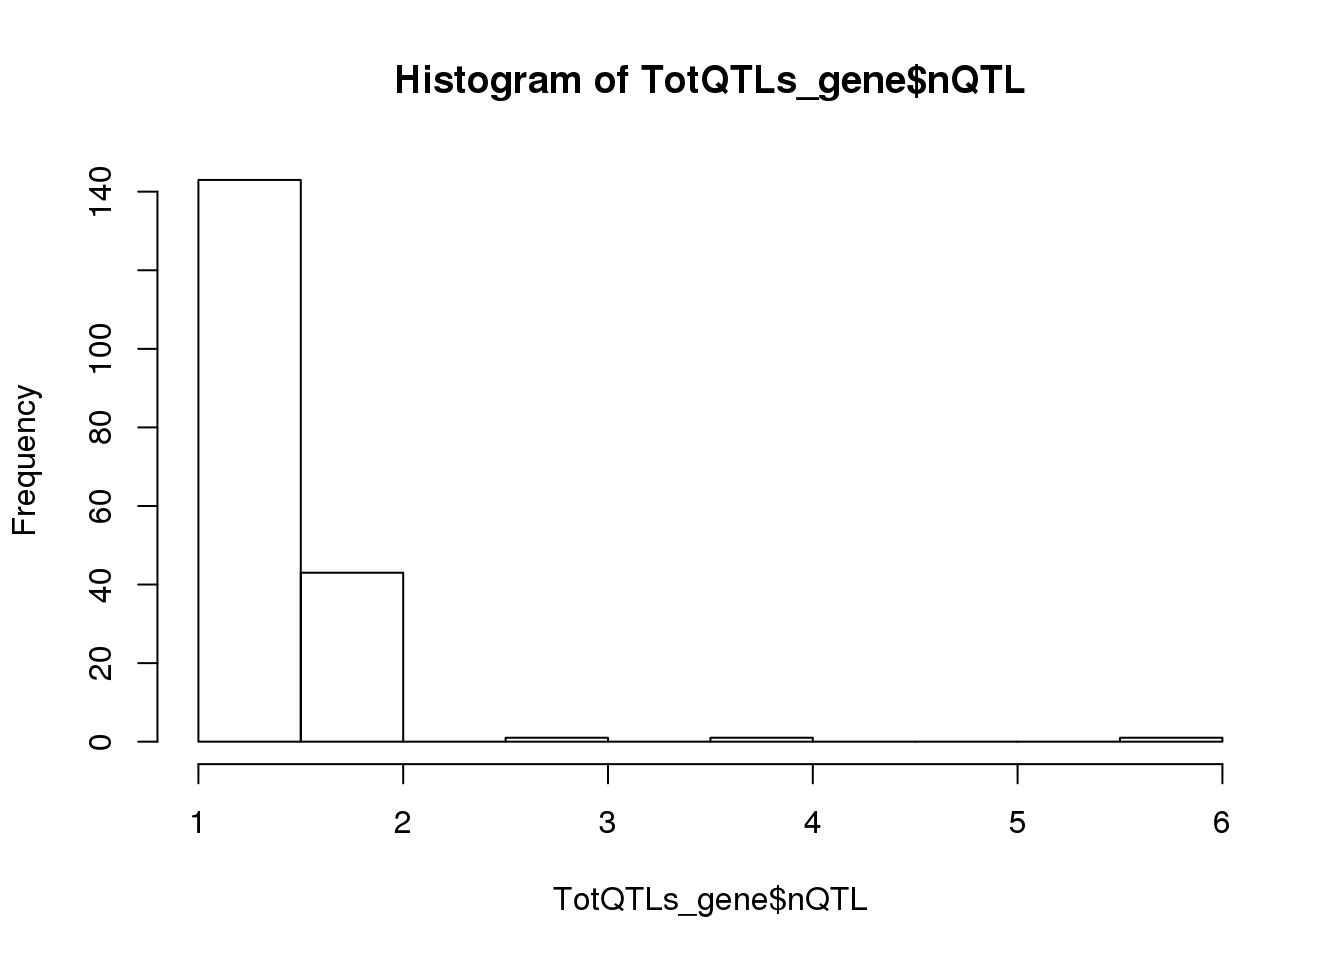
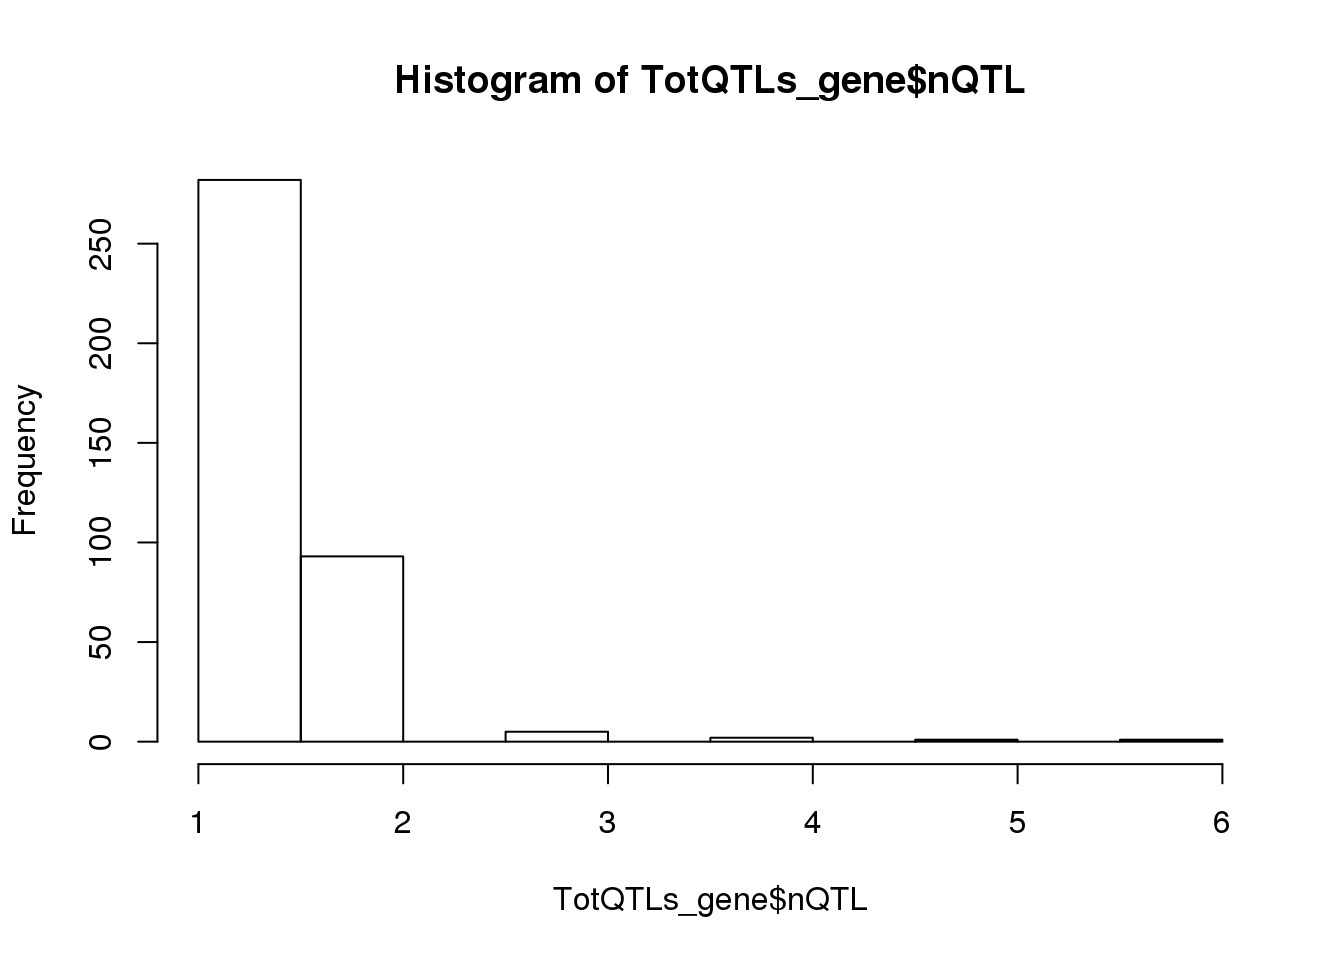
Build site.

diff --git a/docs/mapapaQTL.html b/docs/mapapaQTL.html
@@ -343,7 +343,7 @@ div.section {
 <div class="tab-content">
 <div id="summary" class="tab-pane fade in active">
 <p>
-<strong>Last updated:</strong> 2019-04-28
+<strong>Last updated:</strong> 2019-04-29
 </p>
 <p>
 <strong>Checks:</strong> <span class="glyphicon glyphicon-ok text-success" aria-hidden="true"></span> 6 <span class="glyphicon glyphicon-exclamation-sign text-danger" aria-hidden="true"></span> 0
@@ -422,10 +422,10 @@ This reproducible <a href="http://rmarkdown.rstudio.com">R Markdown</a> analysis
 <div class="panel panel-default">
 <div class="panel-heading">
 <p class="panel-title">
-<a data-toggle="collapse" data-parent="#workflowr-checks" href="#strongRepositoryversionstrongahrefhttpsgithubcombrimittlemanapaQTLtree7416404d702044695f30e239122400f7bc585423targetblank7416404a"> <span class="glyphicon glyphicon-ok text-success" aria-hidden="true"></span> <strong>Repository version:</strong> <a href="https://github.com/brimittleman/apaQTL/tree/7416404d702044695f30e239122400f7bc585423" target="_blank">7416404</a> </a>
+<a data-toggle="collapse" data-parent="#workflowr-checks" href="#strongRepositoryversionstrongahrefhttpsgithubcombrimittlemanapaQTLtreeb18b96c887192a82ee966941ba2d25e3fd030c71targetblankb18b96ca"> <span class="glyphicon glyphicon-ok text-success" aria-hidden="true"></span> <strong>Repository version:</strong> <a href="https://github.com/brimittleman/apaQTL/tree/b18b96c887192a82ee966941ba2d25e3fd030c71" target="_blank">b18b96c</a> </a>
 </p>
 </div>
[2 lines of base64/hex data omitted]
 <div class="panel-body">
 <p>
 Great! You are using Git for version control. Tracking code development and connecting the code version to the results is critical for reproducibility. The version displayed above was the version of the Git repository at the time these results were generated. <br><br> Note that you need to be careful to ensure that all relevant files for the analysis have been committed to Git prior to generating the results (you can use <code>wflow_publish</code> or <code>wflow_git_commit</code>). workflowr only checks the R Markdown file, but you know if there are other scripts or data files that it depends on. Below is the status of the Git repository when the results were generated:
@@ -435,7 +435,6 @@ Ignored files:
     Ignored:    .DS_Store
     Ignored:    .Rhistory
     Ignored:    .Rproj.user/
-    Ignored:    analysis/figure/
     Ignored:    output/.DS_Store
 
 Untracked files:
@@ -553,6 +552,7 @@ Unstaged changes:
     Modified:   analysis/corrbetweenind.Rmd
     Deleted:    code/Upstream10Bases_general.py
     Modified:   code/apaQTLCorrectPvalMakeQQ.R
+    Modified:   code/apaQTL_permuted.sh
     Modified:   code/bed2saf.py
     Deleted:    code/test.txt
 
@@ -593,6 +593,40 @@ Message
 </tr>
 </thead>
 <tbody>
+<tr>
+<td>
+Rmd
+</td>
+<td>
+<a href="https://github.com/brimittleman/apaQTL/blob/b18b96c887192a82ee966941ba2d25e3fd030c71/analysis/mapapaQTL.Rmd" target="_blank">b18b96c</a>
+</td>
+<td>
+brimittleman
+</td>
+<td>
+2019-04-29
+</td>
+<td>
+fix distance
+</td>
+</tr>
+<tr>
+<td>
+html
+</td>
+<td>
+<a href="https://rawcdn.githack.com/brimittleman/apaQTL/2d337286e7a8c6bcf3460f560c34668865a0b7df/docs/mapapaQTL.html" target="_blank">2d33728</a>
+</td>
+<td>
+brimittleman
+</td>
+<td>
+2019-04-28
+</td>
+<td>
+Build site.
+</td>
+</tr>
 <tr>
 <td>
 Rmd
@@ -686,12 +720,12 @@ add map apa qtl pipeline
 </div>
 </div>
 <pre class="r"><code>library(tidyverse)</code></pre>
-<pre><code>── Attaching packages ───────────────────────────────────────────────────────────────────── tidyverse 1.2.1 ──</code></pre>
+<pre><code>── Attaching packages ──────────────────────────────────────────────────────────────── tidyverse 1.2.1 ──</code></pre>
 <pre><code>✔ ggplot2 3.1.0       ✔ purrr   0.3.2  
 ✔ tibble  2.1.1       ✔ dplyr   0.8.0.1
 ✔ tidyr   0.8.3       ✔ stringr 1.3.1  
 ✔ readr   1.3.1       ✔ forcats 0.3.0  </code></pre>
-<pre><code>── Conflicts ──────────────────────────────────────────────────────────────────────── tidyverse_conflicts() ──
+<pre><code>── Conflicts ─────────────────────────────────────────────────────────────────── tidyverse_conflicts() ──
 ✖ dplyr::filter() masks stats::filter()
 ✖ dplyr::lag()    masks stats::lag()</code></pre>
 <pre class="r"><code>library(reshape2)</code></pre>
@@ -763,15 +797,52 @@ cat APApeak_Phenotype_GeneLocAnno.Nuclear.5perc.fc.gz.qqnorm_chr* &gt; APApeak_P
 <p>Total Apa QTLs</p>
 <pre class="r"><code>TotQTLs= totRes %&gt;% filter(-log10(bh)&gt;=1)
 nrow(TotQTLs)</code></pre>
-<pre><code>[1] 242</code></pre>
+<pre><code>[1] 502</code></pre>
 <p>apaQTL genes:</p>
 <pre class="r"><code>TotQTLs_gene=TotQTLs %&gt;% group_by(Gene)  %&gt;% summarise(nQTL=n())
 
 summary(TotQTLs_gene$nQTL)</code></pre>
 <pre><code>   Min. 1st Qu.  Median    Mean 3rd Qu.    Max. 
-   1.00    1.00    1.00    1.28    1.00    6.00 </code></pre>
+  1.000   1.000   1.000   1.307   2.000   6.000 </code></pre>
 <pre class="r"><code>hist(TotQTLs_gene$nQTL)</code></pre>
 <p><img src="figure/mapapaQTL.Rmd/unnamed-chunk-12-1.png" width="672" style="display: block; margin: auto;" /></p>
+<p>
+<button type="button" class="btn btn-default btn-xs btn-workflowr btn-workflowr-fig" data-toggle="collapse" data-target="#fig-unnamed-chunk-12-1">
+Past versions of unnamed-chunk-12-1.png
+</button>
+</p>
+<div id="fig-unnamed-chunk-12-1" class="collapse">
+<div class="table-responsive">
+<table class="table table-condensed table-hover">
+<thead>
+<tr>
+<th>
+Version
+</th>
+<th>
+Author
+</th>
+<th>
+Date
+</th>
+</tr>
+</thead>
+<tbody>
+<tr>
+<td>
+<a href="https://github.com/brimittleman/apaQTL/blob/2d337286e7a8c6bcf3460f560c34668865a0b7df/docs/figure/mapapaQTL.Rmd/unnamed-chunk-12-1.png" target="_blank">2d33728</a>
+</td>
+<td>
+brimittleman
+</td>
+<td>
+2019-04-28
+</td>
+</tr>
+</tbody>
+</table>
+</div>
+</div>
 <p>Location distribution for peaks:</p>
 <pre class="r"><code>TotQTLs_loc= TotQTLs %&gt;% group_by(Loc) %&gt;% summarise(nLoc=n()) %&gt;% mutate(PropLoc=nLoc/nrow(TotQTLs))
 
@@ -781,15 +852,52 @@ totQTLloc=ggplot(TotQTLs_loc, aes(x=Loc, y=PropLoc, fill=Loc)) + geom_bar(stat =
 <p>Nuclear Apa QTLs</p>
 <pre class="r"><code>NucQTLs= nucRes %&gt;% filter(-log10(bh)&gt;=1)
 nrow(NucQTLs)</code></pre>
-<pre><code>[1] 521</code></pre>
+<pre><code>[1] 1070</code></pre>
 <p>apaQTL genes:</p>
 <pre class="r"><code>NucQTLs_gene= NucQTLs %&gt;% group_by(Gene)  %&gt;% summarise(nQTL=n())
 
 summary(NucQTLs_gene$nQTL)</code></pre>
 <pre><code>   Min. 1st Qu.  Median    Mean 3rd Qu.    Max. 
-  1.000   1.000   1.000   1.271   1.000   6.000 </code></pre>
+  1.000   1.000   1.000   1.328   2.000   7.000 </code></pre>
 <pre class="r"><code>hist(NucQTLs_gene$nQTL)</code></pre>
 <p><img src="figure/mapapaQTL.Rmd/unnamed-chunk-16-1.png" width="672" style="display: block; margin: auto;" /></p>
+<p>
+<button type="button" class="btn btn-default btn-xs btn-workflowr btn-workflowr-fig" data-toggle="collapse" data-target="#fig-unnamed-chunk-16-1">
+Past versions of unnamed-chunk-16-1.png
+</button>
+</p>
+<div id="fig-unnamed-chunk-16-1" class="collapse">
+<div class="table-responsive">
+<table class="table table-condensed table-hover">
+<thead>
+<tr>
+<th>
+Version
+</th>
+<th>
+Author
+</th>
+<th>
+Date
+</th>
+</tr>
+</thead>
+<tbody>
+<tr>
+<td>
+<a href="https://github.com/brimittleman/apaQTL/blob/2d337286e7a8c6bcf3460f560c34668865a0b7df/docs/figure/mapapaQTL.Rmd/unnamed-chunk-16-1.png" target="_blank">2d33728</a>
+</td>
+<td>
+brimittleman
+</td>
+<td>
+2019-04-28
+</td>
+</tr>
+</tbody>
+</table>
+</div>
+</div>
 <p>Location distribution for peaks:</p>
 <pre class="r"><code>NucQTLs_loc= NucQTLs %&gt;% group_by(Loc) %&gt;% summarise(nLoc=n()) %&gt;% mutate(PropLoc=nLoc/nrow(NucQTLs))
 
@@ -797,6 +905,59 @@ summary(NucQTLs_gene$nQTL)</code></pre>
 nucQTLloc=ggplot(NucQTLs_loc, aes(x=Loc, y=PropLoc, fill=Loc)) + geom_bar(stat = &quot;Identity&quot;) + labs(x=&quot;Location of Significant Peak&quot;, y=&quot;Proportion of QTLs&quot;, title=&quot;Nuclear QTL peak distribution&quot;)+theme(axis.text.x = element_text(angle = 90, hjust = 1))</code></pre>
 <pre class="r"><code>plot_grid(totQTLloc, nucQTLloc)</code></pre>
 <p><img src="figure/mapapaQTL.Rmd/unnamed-chunk-18-1.png" width="672" style="display: block; margin: auto;" /></p>
+<p>
+<button type="button" class="btn btn-default btn-xs btn-workflowr btn-workflowr-fig" data-toggle="collapse" data-target="#fig-unnamed-chunk-18-1">
+Past versions of unnamed-chunk-18-1.png
+</button>
+</p>
+<div id="fig-unnamed-chunk-18-1" class="collapse">
+<div class="table-responsive">
+<table class="table table-condensed table-hover">
+<thead>
+<tr>
+<th>
+Version
+</th>
+<th>
+Author
+</th>
+<th>
+Date
+</th>
+</tr>
+</thead>
+<tbody>
+<tr>
+<td>
+<a href="https://github.com/brimittleman/apaQTL/blob/2d337286e7a8c6bcf3460f560c34668865a0b7df/docs/figure/mapapaQTL.Rmd/unnamed-chunk-18-1.png" target="_blank">2d33728</a>
+</td>
+<td>
+brimittleman
+</td>
+<td>
+2019-04-28
+</td>
+</tr>
+</tbody>
+</table>
+</div>
+</div>
+</div>
+<div id="distance-to-pas" class="section level2">
+<h2>Distance to PAS</h2>
+<p>The distance to PAS is the location of the snp to the end of the peak for the</p>
+<p>Strand in this file is the peak strand (opposite of gene). This means for + strand I want the start of the Peak and for the - strand i will use the end of the peak.</p>
+<pre class="r"><code>TotQTLs_dist=TotQTLs %&gt;% separate(sid, into=c(&quot;SnpCHR&quot;, &quot;SNPpos&quot;), sep=&quot;:&quot;) %&gt;% mutate(Dist2PAS=ifelse(Strand==&quot;+&quot;, as.integer(SNPpos)-as.integer(Start), as.integer(SNPpos)-as.integer(End)))
+
+
+summary(abs(TotQTLs_dist$Dist2PAS))</code></pre>
+<pre><code>   Min. 1st Qu.  Median    Mean 3rd Qu.    Max. 
+      0    1598    6160    8832   15461   25071 </code></pre>
+<p>Plot:</p>
+<pre class="r"><code>ggplot(TotQTLs_dist, aes(x=Dist2PAS)) + geom_histogram(bins=100) + theme(axis.text.x = element_text(angle = 90, hjust = 1))</code></pre>
+<p><img src="figure/mapapaQTL.Rmd/unnamed-chunk-20-1.png" width="672" style="display: block; margin: auto;" /></p>
+<pre class="r"><code>ggplot(TotQTLs_dist, aes(x=Dist2PAS)) + geom_histogram(bins=100) + theme(axis.text.x = element_text(angle = 90, hjust = 1)) + facet_grid(~Loc)</code></pre>
+<p><img src="figure/mapapaQTL.Rmd/unnamed-chunk-21-1.png" width="672" style="display: block; margin: auto;" /> ```</p>
 <br>
 <p>
 <button type="button" class="btn btn-default btn-workflowr btn-workflowr-sessioninfo" data-toggle="collapse" data-target="#workflowr-sessioninfo" style="display: block;">
